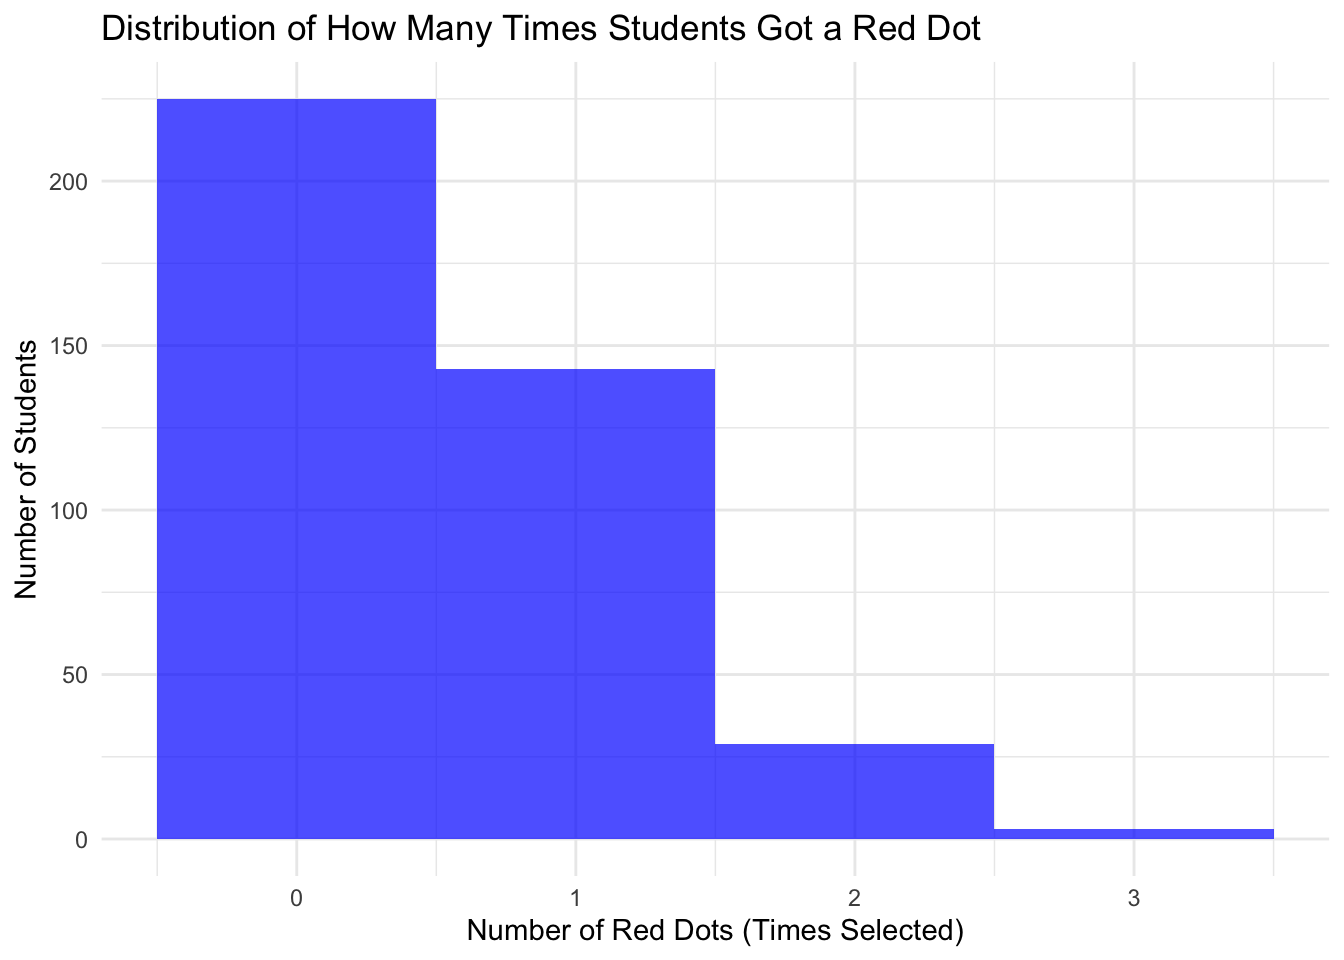
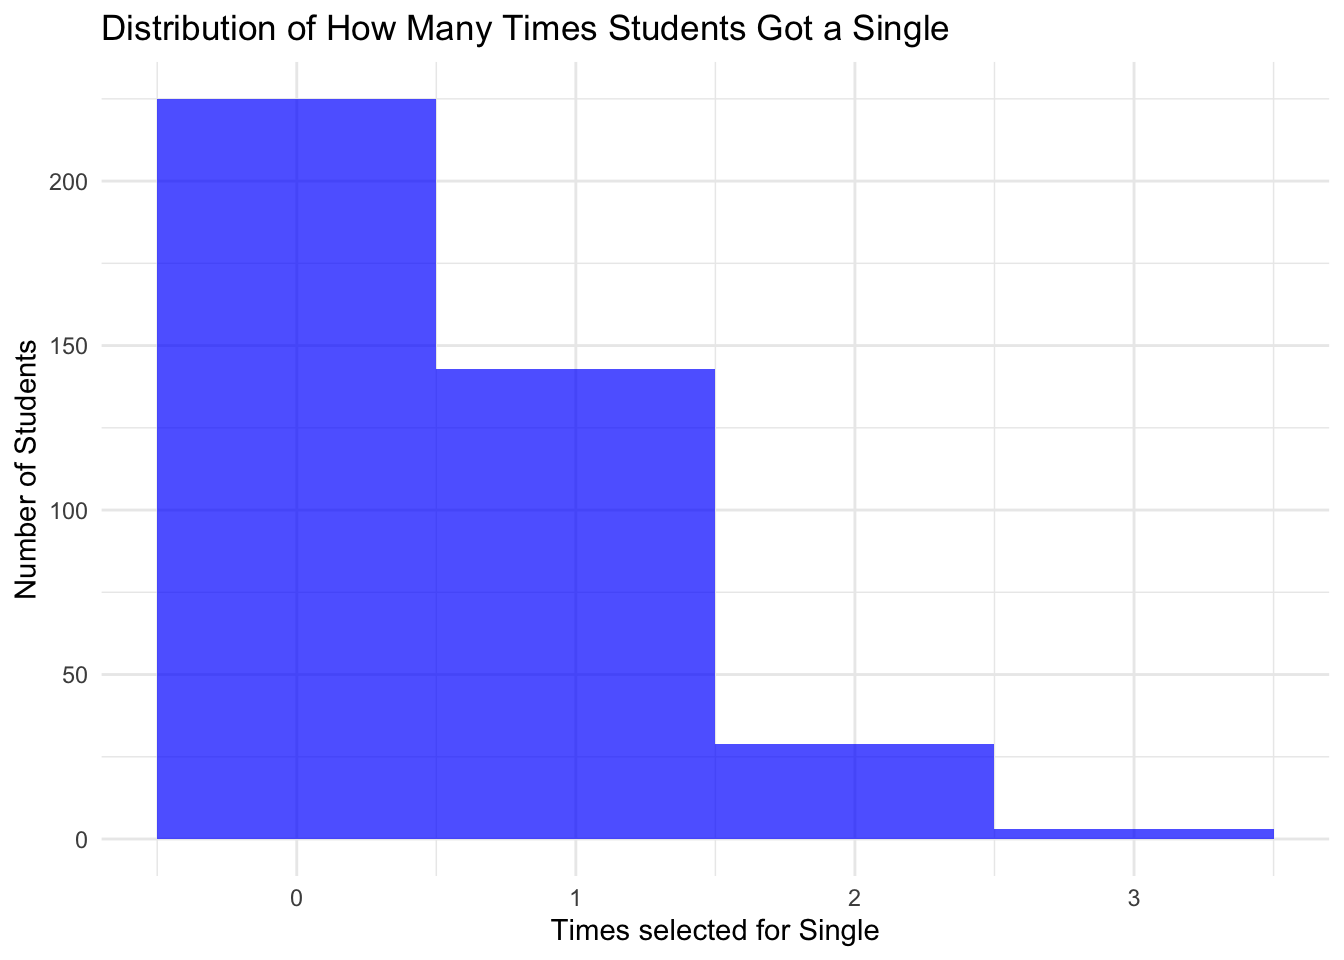
Locked in on 1

Changed region(s): [[0.3438, 0.9375, 0.7188, 1.0], [0.625, 0.0, 0.7188, 0.0625]]

diff --git a/docs/simulationproject.html b/docs/simulationproject.html
@@ -151,10 +151,6 @@ pre > code.sourceCode > span > a:first-child::before { text-decoration: underlin
     <a class="dropdown-item" href="./simulationproject.html">
  <span class="dropdown-text">Will I ever get a single?? Simulation</span></a>
   </li>  
-        <li>
-    <a class="dropdown-item" href="./roomselection.html">
- <span class="dropdown-text">Will I ever get a single?? Simulation</span></a>
-  </li>  
     </ul>
   </li>
 </ul>
@@ -348,78 +344,64 @@ pre > code.sourceCode > span > a:first-child::before { text-decoration: underlin
 <div class="cell">
 <details class="code-fold">
 <summary>Code</summary>
-<div class="sourceCode cell-code" id="cb7"><pre class="sourceCode r code-with-copy"><code class="sourceCode r"><span id="cb7-1"><a href="#cb7-1" aria-hidden="true" tabindex="-1"></a><span class="co"># Function to simulate the room draw</span></span>
-<span id="cb7-2"><a href="#cb7-2" aria-hidden="true" tabindex="-1"></a>simulate_room_draw <span class="ot">&lt;-</span> <span class="cf">function</span>(<span class="at">total_students =</span> <span class="dv">400</span>, <span class="at">students_per_draw =</span> <span class="dv">5</span>, <span class="at">draw_interval =</span> <span class="dv">3</span>) {</span>
-<span id="cb7-3"><a href="#cb7-3" aria-hidden="true" tabindex="-1"></a>  <span class="co"># Create a vector to represent students (1 to 400)</span></span>
-<span id="cb7-4"><a href="#cb7-4" aria-hidden="true" tabindex="-1"></a>  students <span class="ot">&lt;-</span> <span class="dv">1</span><span class="sc">:</span>total_students</span>
-<span id="cb7-5"><a href="#cb7-5" aria-hidden="true" tabindex="-1"></a>  </span>
-<span id="cb7-6"><a href="#cb7-6" aria-hidden="true" tabindex="-1"></a>  <span class="co"># Create a vector to track students who have picked a room</span></span>
-<span id="cb7-7"><a href="#cb7-7" aria-hidden="true" tabindex="-1"></a>  students_picked <span class="ot">&lt;-</span> <span class="fu">rep</span>(<span class="cn">FALSE</span>, total_students)</span>
-<span id="cb7-8"><a href="#cb7-8" aria-hidden="true" tabindex="-1"></a>  </span>
-<span id="cb7-9"><a href="#cb7-9" aria-hidden="true" tabindex="-1"></a>  <span class="co"># Vector to track the order of students picking a room</span></span>
-<span id="cb7-10"><a href="#cb7-10" aria-hidden="true" tabindex="-1"></a>  order_of_picking <span class="ot">&lt;-</span> <span class="fu">c</span>()</span>
-<span id="cb7-11"><a href="#cb7-11" aria-hidden="true" tabindex="-1"></a>  </span>
-<span id="cb7-12"><a href="#cb7-12" aria-hidden="true" tabindex="-1"></a>  num_draws <span class="ot">&lt;-</span> <span class="dv">0</span></span>
-<span id="cb7-13"><a href="#cb7-13" aria-hidden="true" tabindex="-1"></a>  </span>
-<span id="cb7-14"><a href="#cb7-14" aria-hidden="true" tabindex="-1"></a>  <span class="co"># Simulate the process until all students have picked a room</span></span>
-<span id="cb7-15"><a href="#cb7-15" aria-hidden="true" tabindex="-1"></a>  <span class="cf">while</span> (<span class="fu">sum</span>(students_picked) <span class="sc">&lt;</span> total_students) {</span>
-<span id="cb7-16"><a href="#cb7-16" aria-hidden="true" tabindex="-1"></a>    <span class="co"># Randomly select 5 students who haven't picked a room yet</span></span>
-<span id="cb7-17"><a href="#cb7-17" aria-hidden="true" tabindex="-1"></a>    available_students <span class="ot">&lt;-</span> <span class="fu">which</span>(<span class="sc">!</span>students_picked)</span>
-<span id="cb7-18"><a href="#cb7-18" aria-hidden="true" tabindex="-1"></a>    selected_students <span class="ot">&lt;-</span> <span class="fu">sample</span>(available_students, <span class="fu">min</span>(students_per_draw, <span class="fu">length</span>(available_students)), <span class="at">replace =</span> <span class="cn">FALSE</span>)</span>
-<span id="cb7-19"><a href="#cb7-19" aria-hidden="true" tabindex="-1"></a>    </span>
-<span id="cb7-20"><a href="#cb7-20" aria-hidden="true" tabindex="-1"></a>    <span class="co"># Mark those students as having picked a room</span></span>
-<span id="cb7-21"><a href="#cb7-21" aria-hidden="true" tabindex="-1"></a>    students_picked[selected_students] <span class="ot">&lt;-</span> <span class="cn">TRUE</span></span>
-<span id="cb7-22"><a href="#cb7-22" aria-hidden="true" tabindex="-1"></a>    </span>
-<span id="cb7-23"><a href="#cb7-23" aria-hidden="true" tabindex="-1"></a>    <span class="co"># Add selected students to the order of picking</span></span>
-<span id="cb7-24"><a href="#cb7-24" aria-hidden="true" tabindex="-1"></a>    order_of_picking <span class="ot">&lt;-</span> <span class="fu">c</span>(order_of_picking, selected_students)</span>
-<span id="cb7-25"><a href="#cb7-25" aria-hidden="true" tabindex="-1"></a>    </span>
-<span id="cb7-26"><a href="#cb7-26" aria-hidden="true" tabindex="-1"></a>    <span class="co"># Increment the number of draws (or rounds)</span></span>
-<span id="cb7-27"><a href="#cb7-27" aria-hidden="true" tabindex="-1"></a>    num_draws <span class="ot">&lt;-</span> num_draws <span class="sc">+</span> <span class="dv">1</span></span>
-<span id="cb7-28"><a href="#cb7-28" aria-hidden="true" tabindex="-1"></a>  }</span>
+<div class="sourceCode cell-code" id="cb7"><pre class="sourceCode r code-with-copy"><code class="sourceCode r"><span id="cb7-1"><a href="#cb7-1" aria-hidden="true" tabindex="-1"></a>simulate_room_draw <span class="ot">&lt;-</span> <span class="cf">function</span>(<span class="at">total_students =</span> <span class="dv">400</span>, <span class="at">students_per_draw =</span> <span class="dv">5</span>, <span class="at">draw_interval =</span> <span class="dv">3</span>) {</span>
+<span id="cb7-2"><a href="#cb7-2" aria-hidden="true" tabindex="-1"></a></span>
+<span id="cb7-3"><a href="#cb7-3" aria-hidden="true" tabindex="-1"></a>  students <span class="ot">&lt;-</span> <span class="dv">1</span><span class="sc">:</span>total_students</span>
+<span id="cb7-4"><a href="#cb7-4" aria-hidden="true" tabindex="-1"></a>  </span>
+<span id="cb7-5"><a href="#cb7-5" aria-hidden="true" tabindex="-1"></a></span>
+<span id="cb7-6"><a href="#cb7-6" aria-hidden="true" tabindex="-1"></a>  students_picked <span class="ot">&lt;-</span> <span class="fu">rep</span>(<span class="cn">FALSE</span>, total_students)</span>
+<span id="cb7-7"><a href="#cb7-7" aria-hidden="true" tabindex="-1"></a>  </span>
+<span id="cb7-8"><a href="#cb7-8" aria-hidden="true" tabindex="-1"></a></span>
+<span id="cb7-9"><a href="#cb7-9" aria-hidden="true" tabindex="-1"></a>  order_of_picking <span class="ot">&lt;-</span> <span class="fu">c</span>()</span>
+<span id="cb7-10"><a href="#cb7-10" aria-hidden="true" tabindex="-1"></a>  </span>
+<span id="cb7-11"><a href="#cb7-11" aria-hidden="true" tabindex="-1"></a>  num_draws <span class="ot">&lt;-</span> <span class="dv">0</span></span>
+<span id="cb7-12"><a href="#cb7-12" aria-hidden="true" tabindex="-1"></a>  </span>
+<span id="cb7-13"><a href="#cb7-13" aria-hidden="true" tabindex="-1"></a></span>
+<span id="cb7-14"><a href="#cb7-14" aria-hidden="true" tabindex="-1"></a>  <span class="cf">while</span> (<span class="fu">sum</span>(students_picked) <span class="sc">&lt;</span> total_students) {</span>
+<span id="cb7-15"><a href="#cb7-15" aria-hidden="true" tabindex="-1"></a></span>
+<span id="cb7-16"><a href="#cb7-16" aria-hidden="true" tabindex="-1"></a>    available_students <span class="ot">&lt;-</span> <span class="fu">which</span>(<span class="sc">!</span>students_picked)</span>
+<span id="cb7-17"><a href="#cb7-17" aria-hidden="true" tabindex="-1"></a>    selected_students <span class="ot">&lt;-</span> <span class="fu">sample</span>(available_students, <span class="fu">min</span>(students_per_draw, <span class="fu">length</span>(available_students)), <span class="at">replace =</span> <span class="cn">FALSE</span>)</span>
+<span id="cb7-18"><a href="#cb7-18" aria-hidden="true" tabindex="-1"></a>    </span>
+<span id="cb7-19"><a href="#cb7-19" aria-hidden="true" tabindex="-1"></a>  </span>
+<span id="cb7-20"><a href="#cb7-20" aria-hidden="true" tabindex="-1"></a>    students_picked[selected_students] <span class="ot">&lt;-</span> <span class="cn">TRUE</span></span>
+<span id="cb7-21"><a href="#cb7-21" aria-hidden="true" tabindex="-1"></a>    </span>
+<span id="cb7-22"><a href="#cb7-22" aria-hidden="true" tabindex="-1"></a> </span>
+<span id="cb7-23"><a href="#cb7-23" aria-hidden="true" tabindex="-1"></a>    order_of_picking <span class="ot">&lt;-</span> <span class="fu">c</span>(order_of_picking, selected_students)</span>
+<span id="cb7-24"><a href="#cb7-24" aria-hidden="true" tabindex="-1"></a>    </span>
+<span id="cb7-25"><a href="#cb7-25" aria-hidden="true" tabindex="-1"></a>   </span>
+<span id="cb7-26"><a href="#cb7-26" aria-hidden="true" tabindex="-1"></a>    num_draws <span class="ot">&lt;-</span> num_draws <span class="sc">+</span> <span class="dv">1</span></span>
+<span id="cb7-27"><a href="#cb7-27" aria-hidden="true" tabindex="-1"></a>  }</span>
+<span id="cb7-28"><a href="#cb7-28" aria-hidden="true" tabindex="-1"></a>  </span>
 <span id="cb7-29"><a href="#cb7-29" aria-hidden="true" tabindex="-1"></a>  </span>
-<span id="cb7-30"><a href="#cb7-30" aria-hidden="true" tabindex="-1"></a>  <span class="co"># Return the order of picking and the number of draws</span></span>
-<span id="cb7-31"><a href="#cb7-31" aria-hidden="true" tabindex="-1"></a>  <span class="fu">list</span>(<span class="at">order_of_picking =</span> order_of_picking, <span class="at">num_draws =</span> num_draws)</span>
-<span id="cb7-32"><a href="#cb7-32" aria-hidden="true" tabindex="-1"></a>}</span>
+<span id="cb7-30"><a href="#cb7-30" aria-hidden="true" tabindex="-1"></a>  <span class="fu">list</span>(<span class="at">order_of_picking =</span> order_of_picking, <span class="at">num_draws =</span> num_draws)</span>
+<span id="cb7-31"><a href="#cb7-31" aria-hidden="true" tabindex="-1"></a>}</span>
+<span id="cb7-32"><a href="#cb7-32" aria-hidden="true" tabindex="-1"></a></span>
 <span id="cb7-33"><a href="#cb7-33" aria-hidden="true" tabindex="-1"></a></span>
-<span id="cb7-34"><a href="#cb7-34" aria-hidden="true" tabindex="-1"></a><span class="co"># Run the simulation 3 times</span></span>
-<span id="cb7-35"><a href="#cb7-35" aria-hidden="true" tabindex="-1"></a><span class="fu">set.seed</span>(<span class="dv">42</span>)</span>
-<span id="cb7-36"><a href="#cb7-36" aria-hidden="true" tabindex="-1"></a>simulations <span class="ot">&lt;-</span> <span class="fu">map</span>(<span class="dv">1</span><span class="sc">:</span><span class="dv">3</span>, <span class="sc">~</span> <span class="fu">simulate_room_draw</span>())</span>
+<span id="cb7-34"><a href="#cb7-34" aria-hidden="true" tabindex="-1"></a><span class="fu">set.seed</span>(<span class="dv">42</span>)</span>
+<span id="cb7-35"><a href="#cb7-35" aria-hidden="true" tabindex="-1"></a>simulations <span class="ot">&lt;-</span> <span class="fu">map</span>(<span class="dv">1</span><span class="sc">:</span><span class="dv">3</span>, <span class="sc">~</span> <span class="fu">simulate_room_draw</span>())</span>
+<span id="cb7-36"><a href="#cb7-36" aria-hidden="true" tabindex="-1"></a></span>
 <span id="cb7-37"><a href="#cb7-37" aria-hidden="true" tabindex="-1"></a></span>
-<span id="cb7-38"><a href="#cb7-38" aria-hidden="true" tabindex="-1"></a><span class="co"># Create a vector to track how many times each student is a red dot</span></span>
-<span id="cb7-39"><a href="#cb7-39" aria-hidden="true" tabindex="-1"></a>student_red_dot_count <span class="ot">&lt;-</span> <span class="fu">rep</span>(<span class="dv">0</span>, <span class="dv">400</span>)</span>
+<span id="cb7-38"><a href="#cb7-38" aria-hidden="true" tabindex="-1"></a>student_red_dot_count <span class="ot">&lt;-</span> <span class="fu">rep</span>(<span class="dv">0</span>, <span class="dv">400</span>)</span>
+<span id="cb7-39"><a href="#cb7-39" aria-hidden="true" tabindex="-1"></a></span>
 <span id="cb7-40"><a href="#cb7-40" aria-hidden="true" tabindex="-1"></a></span>
-<span id="cb7-41"><a href="#cb7-41" aria-hidden="true" tabindex="-1"></a><span class="co"># Update the red dot count for the first 70 students in each simulation</span></span>
-<span id="cb7-42"><a href="#cb7-42" aria-hidden="true" tabindex="-1"></a><span class="fu">map</span>(simulations, <span class="sc">~</span> {</span>
+<span id="cb7-41"><a href="#cb7-41" aria-hidden="true" tabindex="-1"></a><span class="co">#utilized walk instead of map here bc I found that it would eliminate the result and would set up the graph without teh additional numbers. </span></span>
+<span id="cb7-42"><a href="#cb7-42" aria-hidden="true" tabindex="-1"></a><span class="fu">walk</span>(simulations, <span class="sc">~</span> {</span>
 <span id="cb7-43"><a href="#cb7-43" aria-hidden="true" tabindex="-1"></a>  red_dot_students <span class="ot">&lt;-</span> .x<span class="sc">$</span>order_of_picking[<span class="dv">1</span><span class="sc">:</span><span class="dv">70</span>]</span>
 <span id="cb7-44"><a href="#cb7-44" aria-hidden="true" tabindex="-1"></a>  student_red_dot_count[red_dot_students] <span class="ot">&lt;&lt;-</span> student_red_dot_count[red_dot_students] <span class="sc">+</span> <span class="dv">1</span></span>
-<span id="cb7-45"><a href="#cb7-45" aria-hidden="true" tabindex="-1"></a>})</span></code><button title="Copy to Clipboard" class="code-copy-button"><i class="bi"></i></button></pre></div>
-</details>
-<div class="cell-output cell-output-stdout">
-<pre><code>[[1]]
- [1] 1 1 1 1 1 1 1 1 1 1 1 1 1 1 1 1 1 1 1 1 1 1 1 1 1 1 1 1 1 1 1 1 1 1 1 1 1 1
-[39] 1 1 1 1 1 1 1 1 1 1 1 1 1 1 1 1 1 1 1 1 1 1 1 1 1 1 1 1 1 1 1 1
-
-[[2]]
- [1] 1 1 1 1 1 1 1 1 1 2 1 1 2 1 1 1 1 2 1 2 1 1 1 1 1 1 1 1 1 1 1 1 1 1 1 1 1 1
-[39] 2 1 1 1 1 2 1 1 1 1 2 1 2 1 1 1 1 1 1 2 1 2 2 1 1 1 1 1 1 1 2 1
-
-[[3]]
- [1] 2 2 1 1 2 1 1 2 1 1 2 2 1 2 1 1 2 3 2 1 1 1 1 2 1 1 1 1 2 1 1 1 1 1 2 1 1 1
-[39] 1 1 1 1 1 3 1 2 2 2 2 2 1 1 1 3 1 1 1 1 1 1 2 1 1 1 1 2 1 1 1 2</code></pre>
-</div>
-<details class="code-fold">
-<summary>Code</summary>
-<div class="sourceCode cell-code" id="cb9"><pre class="sourceCode r code-with-copy"><code class="sourceCode r"><span id="cb9-1"><a href="#cb9-1" aria-hidden="true" tabindex="-1"></a><span class="co"># Create a histogram of how many times students were red dots (0, 1, 2, or 3 times)</span></span>
-<span id="cb9-2"><a href="#cb9-2" aria-hidden="true" tabindex="-1"></a>df <span class="ot">&lt;-</span> <span class="fu">tibble</span>(<span class="at">red_dot_count =</span> student_red_dot_count)</span>
-<span id="cb9-3"><a href="#cb9-3" aria-hidden="true" tabindex="-1"></a></span>
-<span id="cb9-4"><a href="#cb9-4" aria-hidden="true" tabindex="-1"></a><span class="co"># Plot the histogram</span></span>
-<span id="cb9-5"><a href="#cb9-5" aria-hidden="true" tabindex="-1"></a><span class="fu">ggplot</span>(df, <span class="fu">aes</span>(<span class="at">x =</span> red_dot_count)) <span class="sc">+</span></span>
-<span id="cb9-6"><a href="#cb9-6" aria-hidden="true" tabindex="-1"></a>  <span class="fu">geom_histogram</span>(<span class="at">binwidth =</span> <span class="dv">1</span>, <span class="at">fill =</span> <span class="st">"blue"</span>, <span class="at">alpha =</span> <span class="fl">0.7</span>) <span class="sc">+</span></span>
-<span id="cb9-7"><a href="#cb9-7" aria-hidden="true" tabindex="-1"></a>  <span class="fu">labs</span>(<span class="at">title =</span> <span class="st">"Distribution of How Many Times Students Got a Red Dot"</span>,</span>
-<span id="cb9-8"><a href="#cb9-8" aria-hidden="true" tabindex="-1"></a>       <span class="at">x =</span> <span class="st">"Number of Red Dots (Times Selected)"</span>,</span>
-<span id="cb9-9"><a href="#cb9-9" aria-hidden="true" tabindex="-1"></a>       <span class="at">y =</span> <span class="st">"Number of Students"</span>) <span class="sc">+</span></span>
-<span id="cb9-10"><a href="#cb9-10" aria-hidden="true" tabindex="-1"></a>  <span class="fu">scale_x_continuous</span>(<span class="at">breaks =</span> <span class="dv">0</span><span class="sc">:</span><span class="dv">3</span>) <span class="sc">+</span>  </span>
-<span id="cb9-11"><a href="#cb9-11" aria-hidden="true" tabindex="-1"></a>  <span class="fu">theme_minimal</span>()</span></code><button title="Copy to Clipboard" class="code-copy-button"><i class="bi"></i></button></pre></div>
+<span id="cb7-45"><a href="#cb7-45" aria-hidden="true" tabindex="-1"></a>})</span>
+<span id="cb7-46"><a href="#cb7-46" aria-hidden="true" tabindex="-1"></a></span>
+<span id="cb7-47"><a href="#cb7-47" aria-hidden="true" tabindex="-1"></a></span>
+<span id="cb7-48"><a href="#cb7-48" aria-hidden="true" tabindex="-1"></a>df <span class="ot">&lt;-</span> <span class="fu">tibble</span>(<span class="at">red_dot_count =</span> student_red_dot_count)</span>
+<span id="cb7-49"><a href="#cb7-49" aria-hidden="true" tabindex="-1"></a></span>
+<span id="cb7-50"><a href="#cb7-50" aria-hidden="true" tabindex="-1"></a></span>
+<span id="cb7-51"><a href="#cb7-51" aria-hidden="true" tabindex="-1"></a></span>
+<span id="cb7-52"><a href="#cb7-52" aria-hidden="true" tabindex="-1"></a><span class="fu">ggplot</span>(df, <span class="fu">aes</span>(<span class="at">x =</span> red_dot_count)) <span class="sc">+</span></span>
+<span id="cb7-53"><a href="#cb7-53" aria-hidden="true" tabindex="-1"></a>  <span class="fu">geom_histogram</span>(<span class="at">binwidth =</span> <span class="dv">1</span>, <span class="at">fill =</span> <span class="st">"blue"</span>, <span class="at">alpha =</span> <span class="fl">0.7</span>) <span class="sc">+</span></span>
+<span id="cb7-54"><a href="#cb7-54" aria-hidden="true" tabindex="-1"></a>  <span class="fu">labs</span>(<span class="at">title =</span> <span class="st">"Distribution of How Many Times Students Got a Single"</span>,</span>
+<span id="cb7-55"><a href="#cb7-55" aria-hidden="true" tabindex="-1"></a>       <span class="at">x =</span> <span class="st">"Times selected for Single"</span>,</span>
+<span id="cb7-56"><a href="#cb7-56" aria-hidden="true" tabindex="-1"></a>       <span class="at">y =</span> <span class="st">"Number of Students"</span>) <span class="sc">+</span></span>
+<span id="cb7-57"><a href="#cb7-57" aria-hidden="true" tabindex="-1"></a>  <span class="fu">scale_x_continuous</span>(<span class="at">breaks =</span> <span class="dv">0</span><span class="sc">:</span><span class="dv">3</span>) <span class="sc">+</span>  </span>
+<span id="cb7-58"><a href="#cb7-58" aria-hidden="true" tabindex="-1"></a>  <span class="fu">theme_minimal</span>()</span></code><button title="Copy to Clipboard" class="code-copy-button"><i class="bi"></i></button></pre></div>
 </details>
 <div class="cell-output-display">
 <div>
